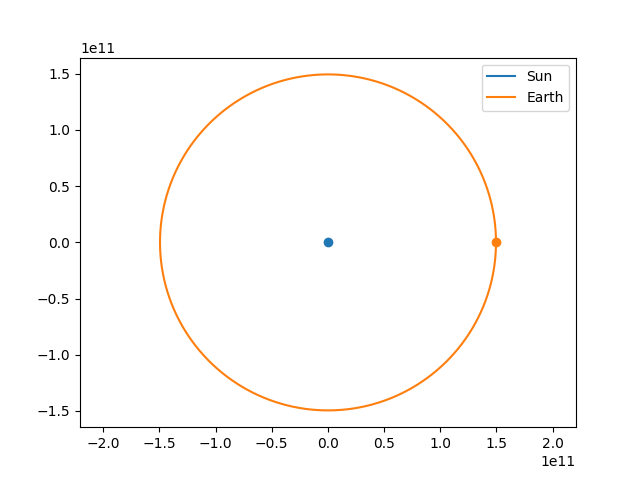
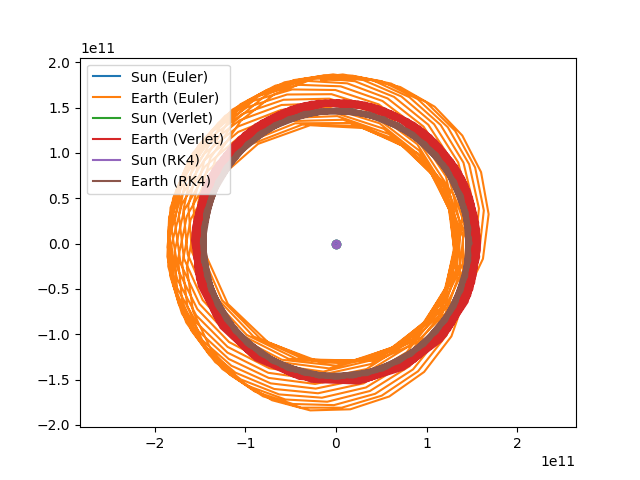
Adds RK4 method

diff --git a/src/rk4_method.py b/src/rk4_method.py
@@ -1,0 +1,59 @@
+from models import VectorizedBody
+import math
+from physics_equations import get_accelerations
+import copy
+
+def runge_kutta_4(step_size: float, total_time: float, body1: VectorizedBody, body2: VectorizedBody):
+  body1_positions = []
+  body2_positions = []
+
+  num_steps =  int(math.ceil(total_time / step_size))
+
+
+  for _ in range(num_steps):
+      body1_positions.append(body1.pos.copy())
+      body2_positions.append(body2.pos.copy())
+
+      body1_acceleration, body2_acceleration = get_accelerations(body1, body2)
+
+      b1_k2_body = copy.deepcopy(body1)
+      b2_k2_body = copy.deepcopy(body2)
+
+      b1_k2_body.pos = body1.pos + (step_size * body1.vel)/2
+      b2_k2_body.pos = body2.pos + (step_size * body2.vel)/2
+
+      b1_k2_body.vel = body1.vel + (step_size * body1_acceleration) / 2
+      b2_k2_body.vel = body2.vel + (step_size * body2_acceleration) / 2
+
+      b1_k2_body.acc, b2_k2_body.acc = get_accelerations(b1_k2_body, b2_k2_body)
+
+      b1_k3_body = copy.deepcopy(body1)
+      b2_k3_body = copy.deepcopy(body2)
+
+      b1_k3_body.pos = body1.pos + (step_size * b1_k2_body.vel) / 2
+      b2_k3_body.pos = body2.pos + (step_size * b2_k2_body.vel) / 2
+
+      b1_k3_body.vel = body1.vel + (step_size * b1_k2_body.acc) / 2
+      b2_k3_body.vel = body2.vel + (step_size * b2_k2_body.acc) / 2
+
+      b1_k3_body.acc , b2_k3_body.acc = get_accelerations(b1_k3_body, b2_k3_body)
+
+      b1_k4_body = copy.deepcopy(body1)
+      b2_k4_body = copy.deepcopy(body2)
+
+      b1_k4_body.pos = body1.pos + step_size * b1_k3_body.vel
+      b2_k4_body.pos = body2.pos + step_size * b2_k3_body.vel
+
+      b1_k4_body.vel = body1.vel + step_size * b1_k3_body.acc
+      b2_k4_body.vel = body2.vel + step_size * b2_k3_body.acc
+
+      b1_k4_body.acc, b2_k4_body.acc = get_accelerations(b1_k4_body, b2_k4_body)
+
+      body1.pos = body1.pos + (1 / 6) * step_size * (body1.vel + 2 * b1_k2_body.vel + 2 * b1_k3_body.vel + b1_k4_body.vel)
+      body2.pos = body2.pos + (1 / 6) * step_size * (body2.vel + 2 * b2_k2_body.vel + 2 * b2_k3_body.vel + b2_k4_body.vel)
+      
+      body1.vel = body1.vel + (1 / 6) * step_size * (body1_acceleration + 2 * b1_k2_body.acc + 2 * b1_k3_body.acc + b1_k4_body.acc)
+      body2.vel = body2.vel + (1 / 6) * step_size * (body2_acceleration + 2 * b2_k2_body.acc + 2 * b2_k3_body.acc + b2_k4_body.acc)
+      
+  
+  return body1_positions, body2_positions

diff --git a/src/main.py b/src/main.py
@@ -4,6 +4,7 @@ from euler_method import euler
 from plotter import Plotter_2_Body, Integrator
 from verlet_method import verlet
 import copy
+from rk4_method import runge_kutta_4
 
 file_name = "./input_data/sun_earth.json"
 
@@ -16,13 +17,19 @@ def main():
         bodies_as_json = json.load(f)
         bodies = [VectorizedBody.from_dict(body) for body in bodies_as_json]
 
+    step_size = one_day * 21
+    total_time = one_year * 20
+
     plotter = Plotter_2_Body(bodies[0].name, bodies[1].name)
 
-    body1_positions, body2_positions = euler(one_day * 7, one_year * 5, copy.deepcopy(bodies[0]), copy.deepcopy(bodies[1]))
+    body1_positions, body2_positions = euler(step_size, total_time, copy.deepcopy(bodies[0]), copy.deepcopy(bodies[1]))
     plotter.plot_points(body1_positions, body2_positions, Integrator.EULER)
 
-    body1_positions, body2_positions = verlet(one_day * 7, one_year * 5, copy.deepcopy(bodies[0]), copy.deepcopy(bodies[1]))
+    body1_positions, body2_positions = verlet(step_size, total_time, copy.deepcopy(bodies[0]), copy.deepcopy(bodies[1]))
     plotter.plot_points(body1_positions, body2_positions, Integrator.VERLET)
+
+    body1_positions, body2_positions = runge_kutta_4(step_size, total_time, copy.deepcopy(bodies[0]), copy.deepcopy(bodies[1]))
+    plotter.plot_points(body1_positions, body2_positions, Integrator.RK4)
 
     plotter.save_figure()
 

diff --git a/src/plotter.py b/src/plotter.py
@@ -4,6 +4,7 @@ from enum import StrEnum
 class Integrator(StrEnum):
   EULER = "Euler"
   VERLET = "Verlet"
+  RK4 = "RK4"
 
 class Plotter_2_Body:
   def __init__(self, body1_name: str, body2_name: str):
